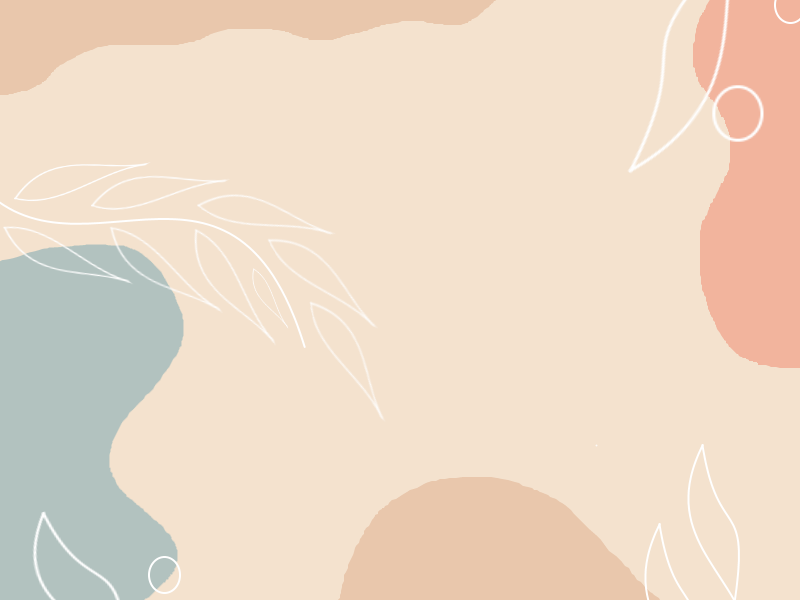
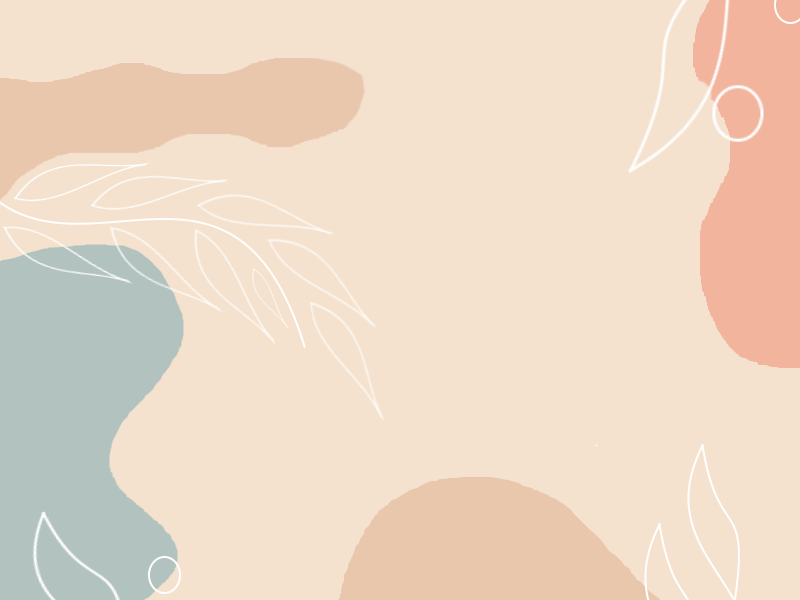
Added new background

Changed region(s): [[0.0, 0.0, 0.625, 0.33], [0.875, 0.12, 0.9062, 0.15]]

diff --git a/style.css b/style.css
@@ -12,7 +12,7 @@ html, body {
   background-size: cover;
   scroll-behavior: smooth;
 /*  background-image: url('https://i.imgur.com/nlq0GM3.png');*/
-  background-image: url('https://raw.githubusercontent.com/divs115/Website/master/Assets/background.png');
+  background-image: url('https://raw.githubusercontent.com/divs115/Website/master/Assets/background3.png');
 }
 /* Remove the navbar's default margin-bottom and rounded borders */ 
 .navbar {
